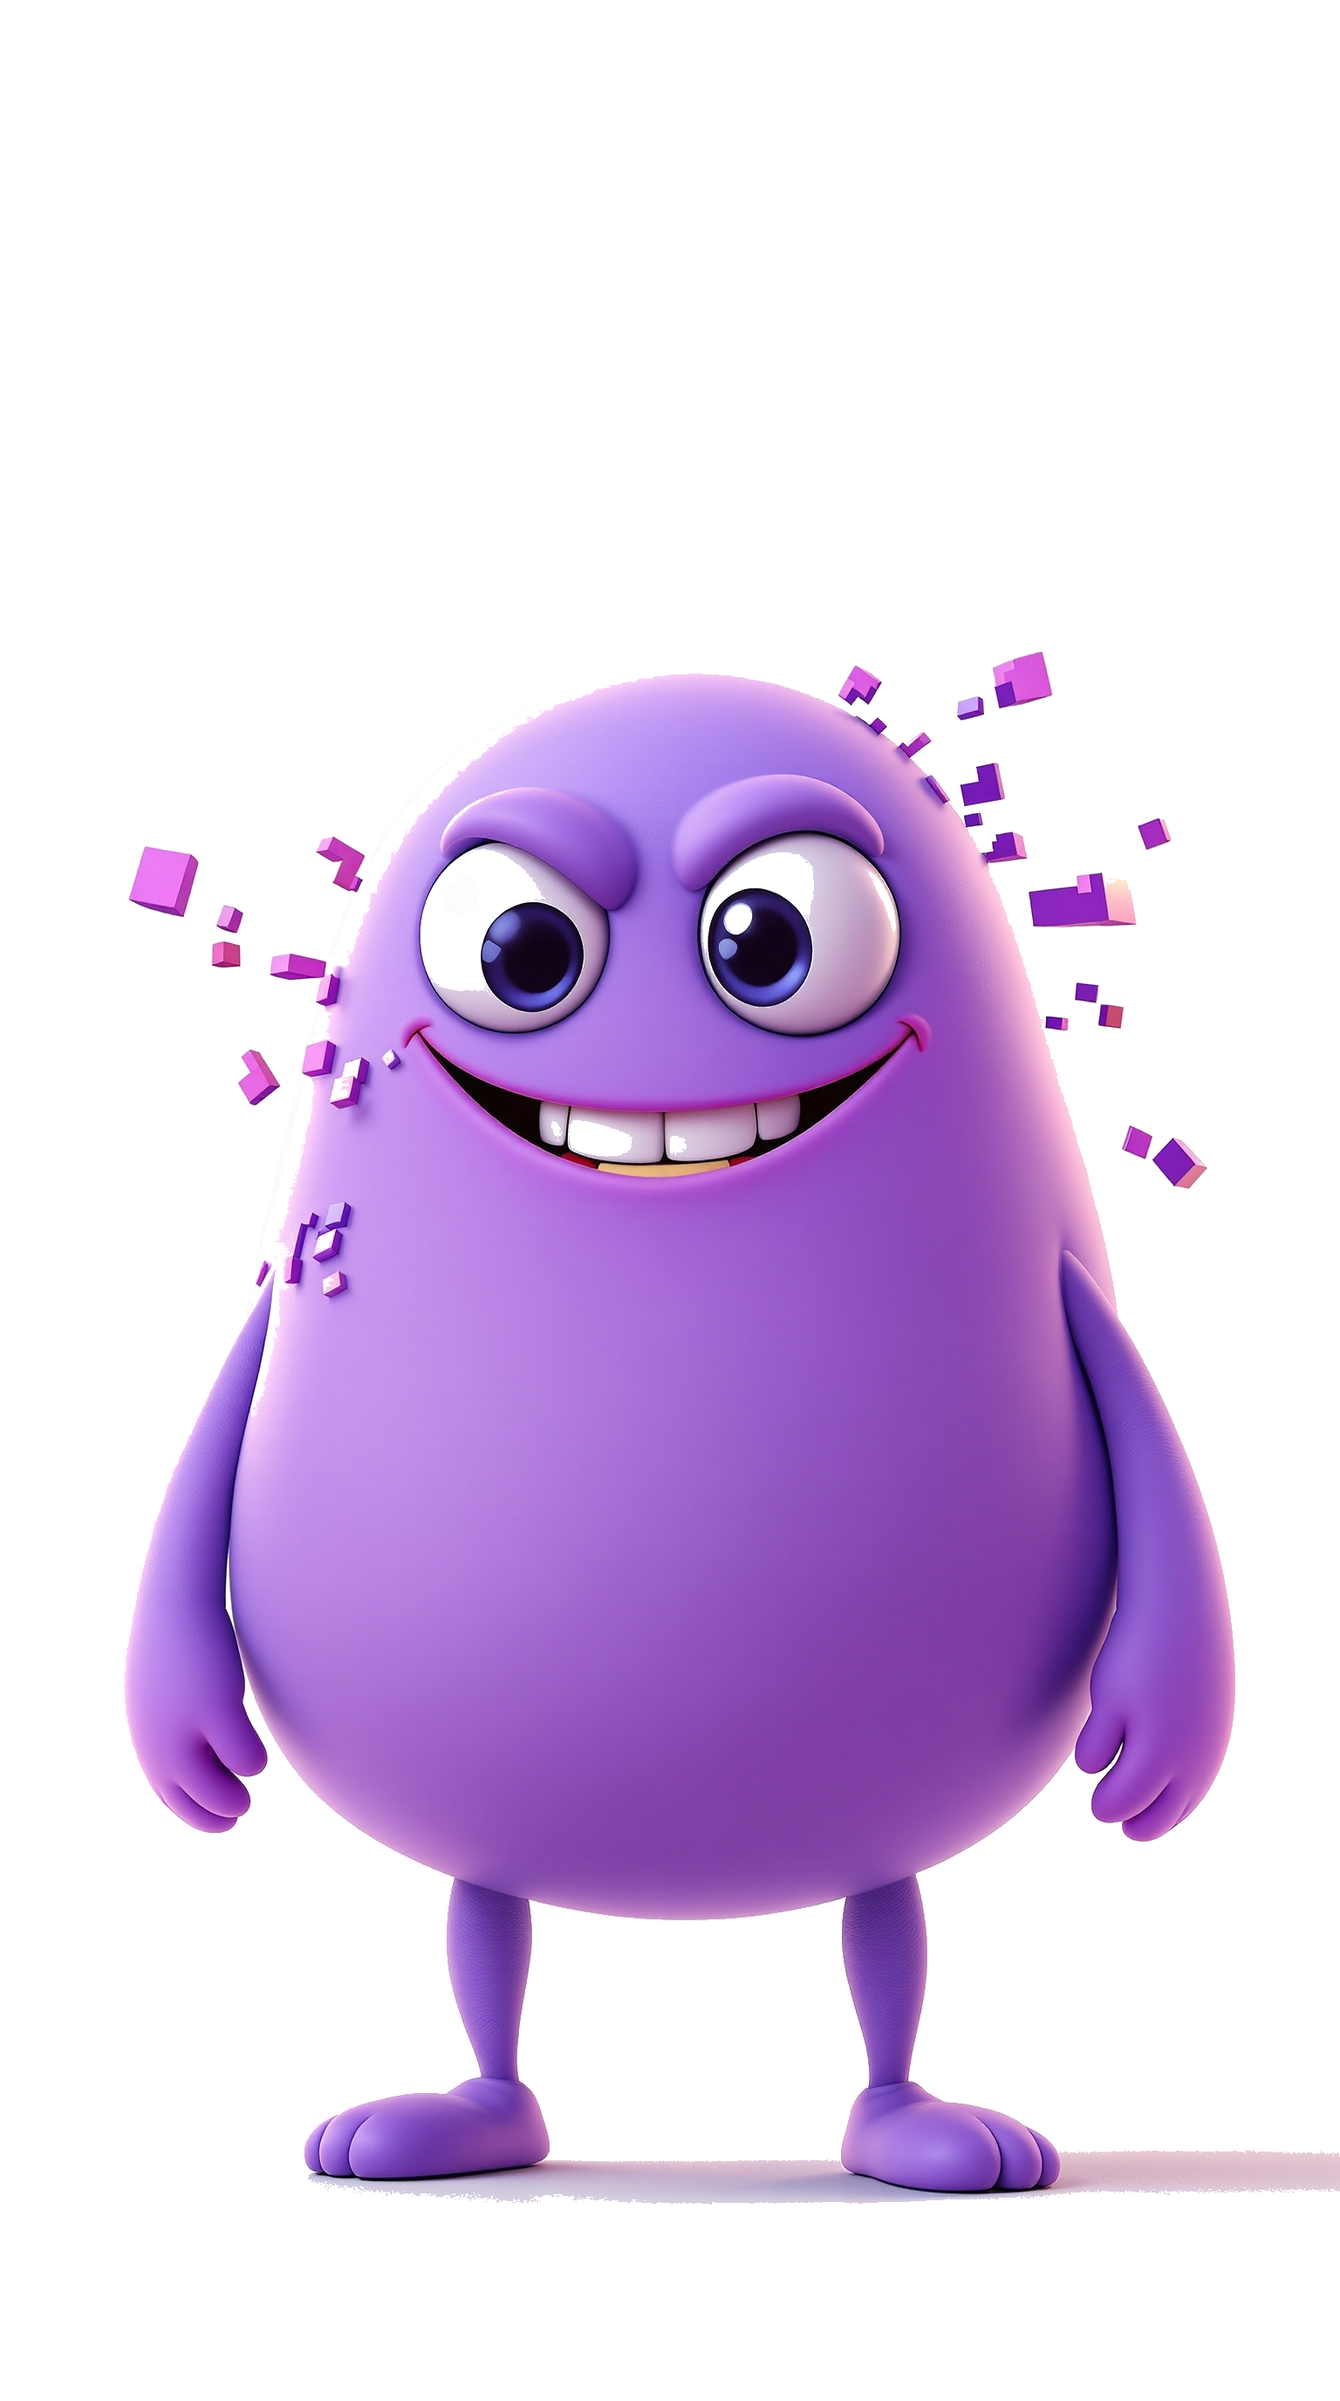
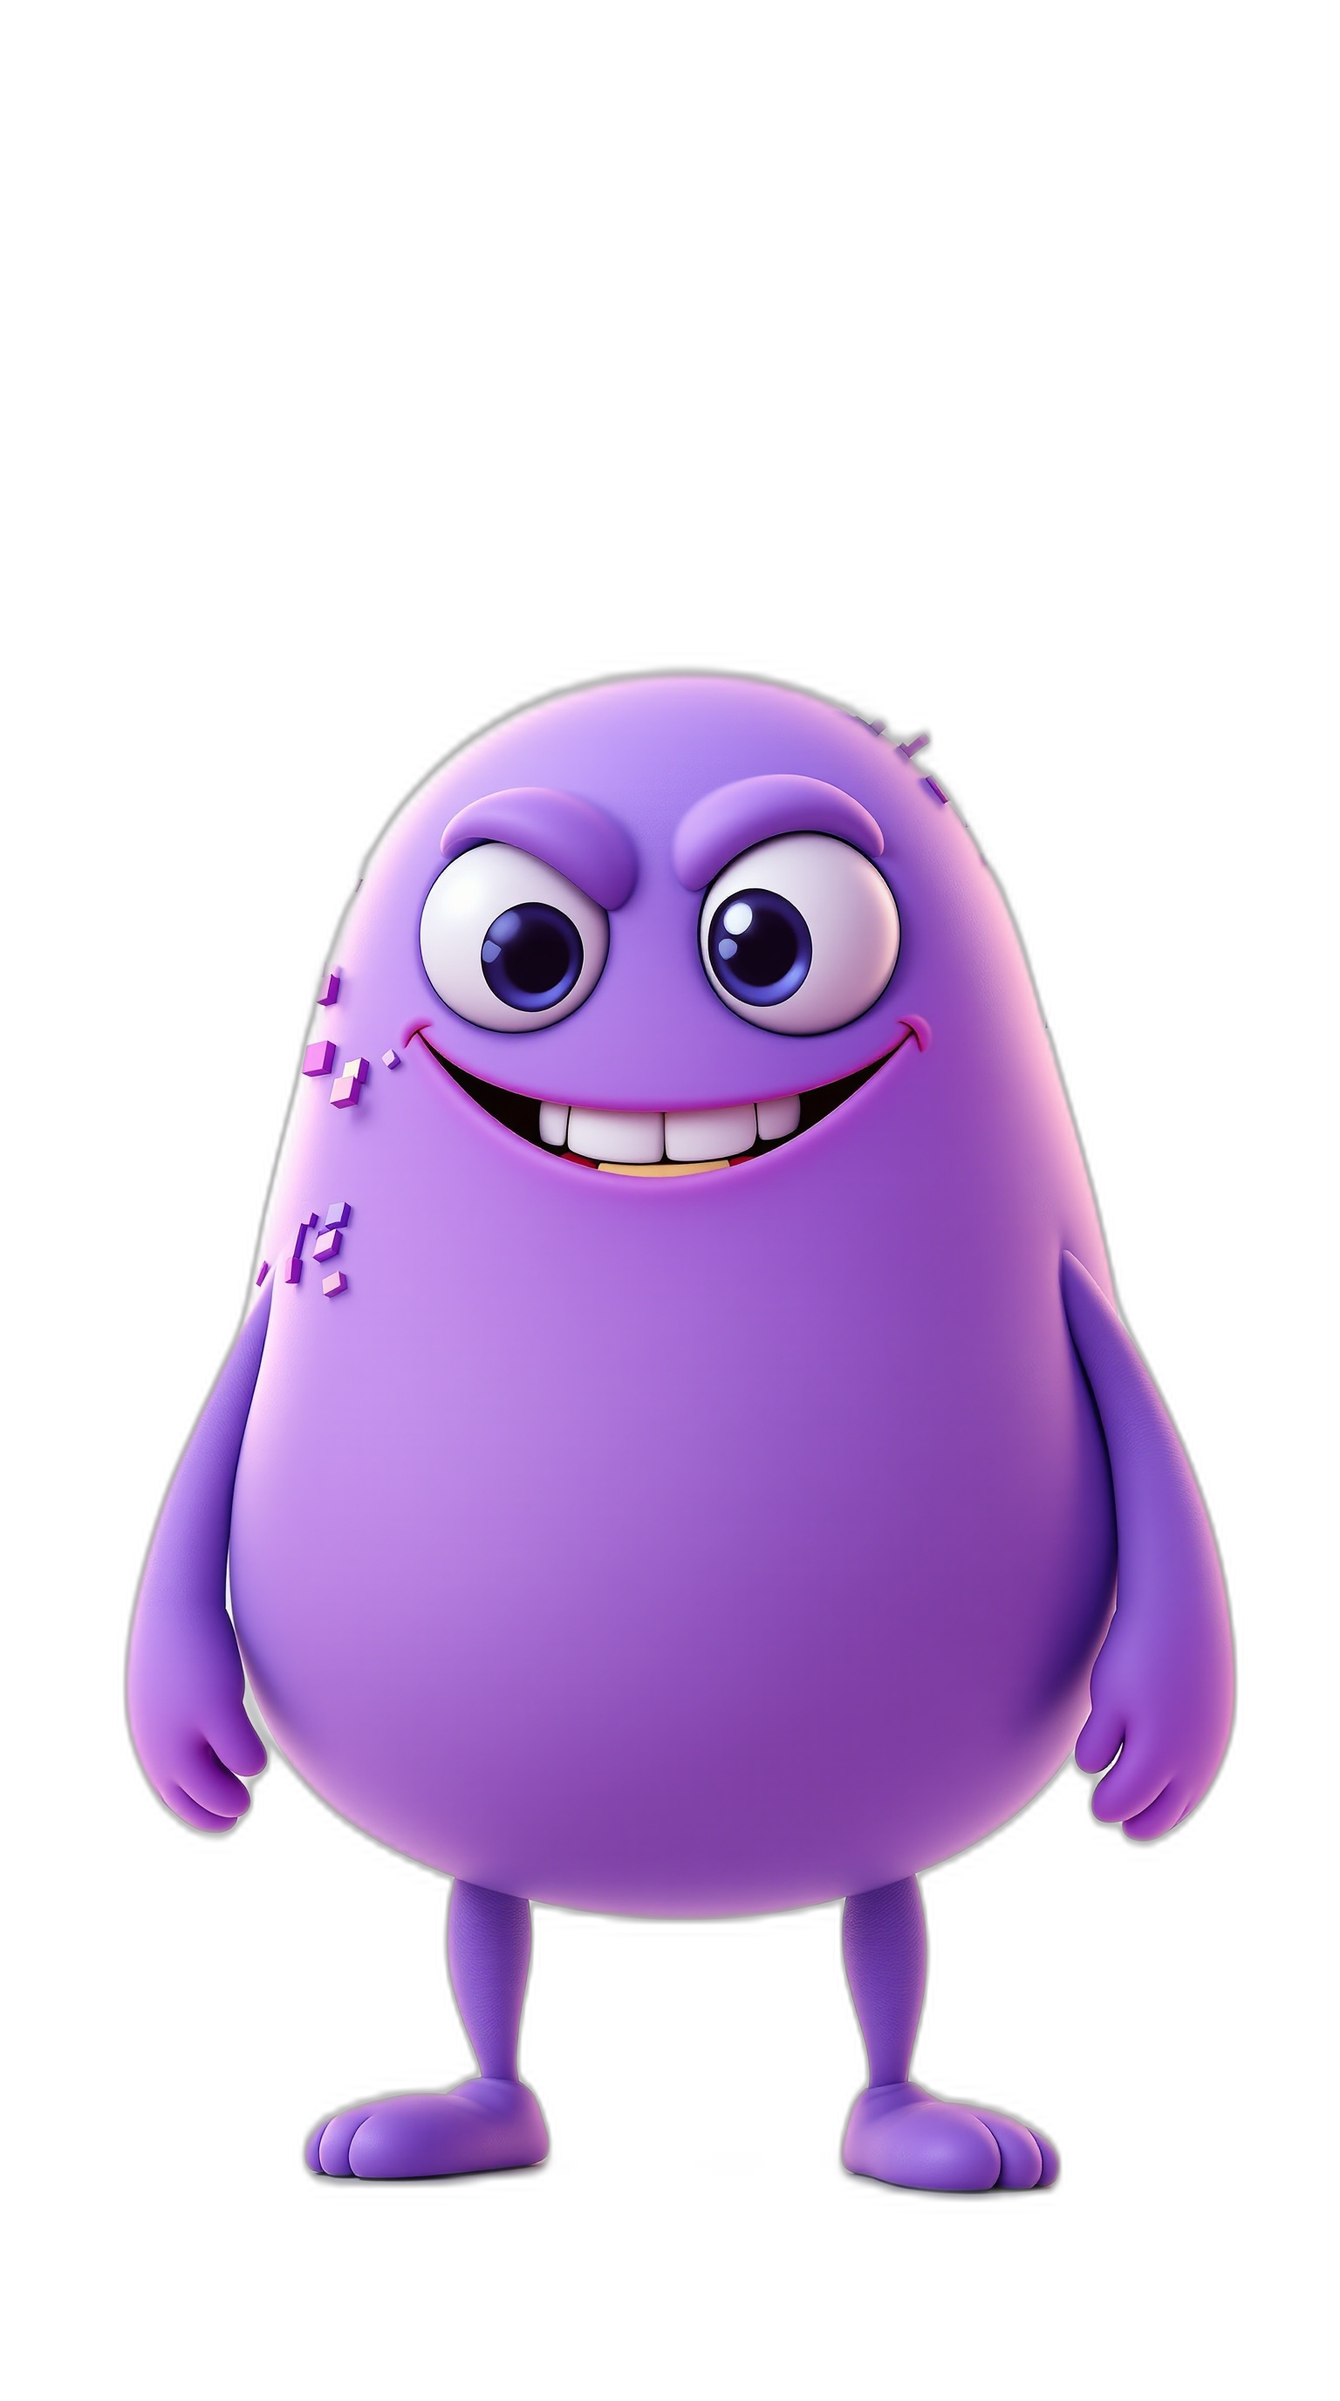
Add second homepage video (Shield Up Anthem), fix character cutout backgrounds
Osman asked for the song campaign resumed with the original "ninni ninni"
153s version of the song, as a second video alongside the existing one
("iki video da olsun") — same verse/chorus-to-clip mapping, re-synced to
this track's timing. Both now play side by side on the homepage.

Also fixed all 6 character cutout PNGs in assets/characters/cutouts/:
several had incomplete background removal (dame-noble and sprout had a
large leftover opaque rectangle from the original studio backdrop; pixel
and glitch had smaller floor-shadow/edge artifacts) — invisible on a white
page background but very visible once composited onto navy for a poster.
Re-generated all 6 from the original source JPGs via rembg for a clean,
consistent result, verified by compositing each onto solid red before
replacing the originals.

diff --git a/frontend/en/index.html b/frontend/en/index.html
@@ -517,13 +517,23 @@
       <p id="poll-note" style="color:var(--gray);font-size:0.72rem;margin-top:0.8rem;display:none;" data-i18n="poll.note">Thanks for voting! Results are a snapshot of member preference, not a formal election.</p>
     </div>
 
-    <div id="shield-up-song" style="margin-top:1.2rem;background:white;border:2px solid var(--light);border-radius:22px;padding:1.6rem 2.2rem;box-shadow:0 4px 24px rgba(13,27,62,0.06);text-align:center;">
-      <div style="color:var(--gold);font-weight:800;font-size:0.72rem;letter-spacing:2px;text-transform:uppercase;margin-bottom:4px;" data-i18n="song.eyebrow">🎵 Sing Along</div>
-      <h3 style="color:var(--navy);font-size:1.15rem;margin-bottom:8px;" data-i18n="song.title">The Shield Up Song</h3>
-      <p style="color:var(--gray);font-size:0.87rem;margin-bottom:14px;max-width:460px;margin-left:auto;margin-right:auto;" data-i18n="song.subtitle">An original song teaching the core Digital Safety Knights rules — sing along with Pixel, Shieldy, Sprout, Dame Noble, Glitch, and Bot!</p>
-      <video controls preload="metadata" poster="/videos/shield-up-song.jpg" style="width:100%;max-width:360px;border-radius:14px;box-shadow:0 8px 24px rgba(13,27,62,0.15);">
-        <source src="/videos/shield-up-song.mp4" type="video/mp4">
-      </video>
+    <div style="margin-top:1.2rem;display:flex;gap:1.2rem;flex-wrap:wrap;">
+      <div id="shield-up-song" style="flex:1;min-width:280px;background:white;border:2px solid var(--light);border-radius:22px;padding:1.6rem 2rem;box-shadow:0 4px 24px rgba(13,27,62,0.06);text-align:center;">
+        <div style="color:var(--gold);font-weight:800;font-size:0.72rem;letter-spacing:2px;text-transform:uppercase;margin-bottom:4px;" data-i18n="song.eyebrow">🎵 Sing Along</div>
+        <h3 style="color:var(--navy);font-size:1.1rem;margin-bottom:8px;" data-i18n="song.title">The Shield Up Song</h3>
+        <p style="color:var(--gray);font-size:0.85rem;margin-bottom:14px;" data-i18n="song.subtitle">An original song teaching the core Digital Safety Knights rules — sing along with Pixel, Shieldy, Sprout, Dame Noble, Glitch, and Bot!</p>
+        <video controls preload="metadata" poster="/videos/shield-up-song.jpg" style="width:100%;max-width:320px;border-radius:14px;box-shadow:0 8px 24px rgba(13,27,62,0.15);">
+          <source src="/videos/shield-up-song.mp4" type="video/mp4">
+        </video>
+      </div>
+      <div id="shield-up-anthem" style="flex:1;min-width:280px;background:white;border:2px solid var(--light);border-radius:22px;padding:1.6rem 2rem;box-shadow:0 4px 24px rgba(13,27,62,0.06);text-align:center;">
+        <div style="color:var(--gold);font-weight:800;font-size:0.72rem;letter-spacing:2px;text-transform:uppercase;margin-bottom:4px;" data-i18n="anthem.eyebrow">🎵 Sing Along</div>
+        <h3 style="color:var(--navy);font-size:1.1rem;margin-bottom:8px;" data-i18n="anthem.title">The Shield Up Anthem</h3>
+        <p style="color:var(--gray);font-size:0.85rem;margin-bottom:14px;" data-i18n="anthem.subtitle">Another version of our Digital Safety Knights song, with the whole squad — same rules, same Knights, a different take!</p>
+        <video controls preload="metadata" poster="/videos/shield-up-anthem.jpg" style="width:100%;max-width:320px;border-radius:14px;box-shadow:0 8px 24px rgba(13,27,62,0.15);">
+          <source src="/videos/shield-up-anthem.mp4" type="video/mp4">
+        </video>
+      </div>
     </div>
   </div>
 </section>

diff --git a/frontend/es/index.html b/frontend/es/index.html
@@ -517,13 +517,23 @@
       <p id="poll-note" style="color:var(--gray);font-size:0.72rem;margin-top:0.8rem;display:none;" data-i18n="poll.note">Thanks for voting! Results are a snapshot of member preference, not a formal election.</p>
     </div>
 
-    <div id="shield-up-song" style="margin-top:1.2rem;background:white;border:2px solid var(--light);border-radius:22px;padding:1.6rem 2.2rem;box-shadow:0 4px 24px rgba(13,27,62,0.06);text-align:center;">
-      <div style="color:var(--gold);font-weight:800;font-size:0.72rem;letter-spacing:2px;text-transform:uppercase;margin-bottom:4px;" data-i18n="song.eyebrow">🎵 Sing Along</div>
-      <h3 style="color:var(--navy);font-size:1.15rem;margin-bottom:8px;" data-i18n="song.title">The Shield Up Song</h3>
-      <p style="color:var(--gray);font-size:0.87rem;margin-bottom:14px;max-width:460px;margin-left:auto;margin-right:auto;" data-i18n="song.subtitle">An original song teaching the core Digital Safety Knights rules — sing along with Pixel, Shieldy, Sprout, Dame Noble, Glitch, and Bot!</p>
-      <video controls preload="metadata" poster="/videos/shield-up-song.jpg" style="width:100%;max-width:360px;border-radius:14px;box-shadow:0 8px 24px rgba(13,27,62,0.15);">
-        <source src="/videos/shield-up-song.mp4" type="video/mp4">
-      </video>
+    <div style="margin-top:1.2rem;display:flex;gap:1.2rem;flex-wrap:wrap;">
+      <div id="shield-up-song" style="flex:1;min-width:280px;background:white;border:2px solid var(--light);border-radius:22px;padding:1.6rem 2rem;box-shadow:0 4px 24px rgba(13,27,62,0.06);text-align:center;">
+        <div style="color:var(--gold);font-weight:800;font-size:0.72rem;letter-spacing:2px;text-transform:uppercase;margin-bottom:4px;" data-i18n="song.eyebrow">🎵 Sing Along</div>
+        <h3 style="color:var(--navy);font-size:1.1rem;margin-bottom:8px;" data-i18n="song.title">The Shield Up Song</h3>
+        <p style="color:var(--gray);font-size:0.85rem;margin-bottom:14px;" data-i18n="song.subtitle">An original song teaching the core Digital Safety Knights rules — sing along with Pixel, Shieldy, Sprout, Dame Noble, Glitch, and Bot!</p>
+        <video controls preload="metadata" poster="/videos/shield-up-song.jpg" style="width:100%;max-width:320px;border-radius:14px;box-shadow:0 8px 24px rgba(13,27,62,0.15);">
+          <source src="/videos/shield-up-song.mp4" type="video/mp4">
+        </video>
+      </div>
+      <div id="shield-up-anthem" style="flex:1;min-width:280px;background:white;border:2px solid var(--light);border-radius:22px;padding:1.6rem 2rem;box-shadow:0 4px 24px rgba(13,27,62,0.06);text-align:center;">
+        <div style="color:var(--gold);font-weight:800;font-size:0.72rem;letter-spacing:2px;text-transform:uppercase;margin-bottom:4px;" data-i18n="anthem.eyebrow">🎵 Sing Along</div>
+        <h3 style="color:var(--navy);font-size:1.1rem;margin-bottom:8px;" data-i18n="anthem.title">The Shield Up Anthem</h3>
+        <p style="color:var(--gray);font-size:0.85rem;margin-bottom:14px;" data-i18n="anthem.subtitle">Another version of our Digital Safety Knights song, with the whole squad — same rules, same Knights, a different take!</p>
+        <video controls preload="metadata" poster="/videos/shield-up-anthem.jpg" style="width:100%;max-width:320px;border-radius:14px;box-shadow:0 8px 24px rgba(13,27,62,0.15);">
+          <source src="/videos/shield-up-anthem.mp4" type="video/mp4">
+        </video>
+      </div>
     </div>
   </div>
 </section>

diff --git a/frontend/index.html b/frontend/index.html
@@ -517,13 +517,23 @@
       <p id="poll-note" style="color:var(--gray);font-size:0.72rem;margin-top:0.8rem;display:none;" data-i18n="poll.note">Thanks for voting! Results are a snapshot of member preference, not a formal election.</p>
     </div>
 
-    <div id="shield-up-song" style="margin-top:1.2rem;background:white;border:2px solid var(--light);border-radius:22px;padding:1.6rem 2.2rem;box-shadow:0 4px 24px rgba(13,27,62,0.06);text-align:center;">
-      <div style="color:var(--gold);font-weight:800;font-size:0.72rem;letter-spacing:2px;text-transform:uppercase;margin-bottom:4px;" data-i18n="song.eyebrow">🎵 Sing Along</div>
-      <h3 style="color:var(--navy);font-size:1.15rem;margin-bottom:8px;" data-i18n="song.title">The Shield Up Song</h3>
-      <p style="color:var(--gray);font-size:0.87rem;margin-bottom:14px;max-width:460px;margin-left:auto;margin-right:auto;" data-i18n="song.subtitle">An original song teaching the core Digital Safety Knights rules — sing along with Pixel, Shieldy, Sprout, Dame Noble, Glitch, and Bot!</p>
-      <video controls preload="metadata" poster="/videos/shield-up-song.jpg" style="width:100%;max-width:360px;border-radius:14px;box-shadow:0 8px 24px rgba(13,27,62,0.15);">
-        <source src="/videos/shield-up-song.mp4" type="video/mp4">
-      </video>
+    <div style="margin-top:1.2rem;display:flex;gap:1.2rem;flex-wrap:wrap;">
+      <div id="shield-up-song" style="flex:1;min-width:280px;background:white;border:2px solid var(--light);border-radius:22px;padding:1.6rem 2rem;box-shadow:0 4px 24px rgba(13,27,62,0.06);text-align:center;">
+        <div style="color:var(--gold);font-weight:800;font-size:0.72rem;letter-spacing:2px;text-transform:uppercase;margin-bottom:4px;" data-i18n="song.eyebrow">🎵 Sing Along</div>
+        <h3 style="color:var(--navy);font-size:1.1rem;margin-bottom:8px;" data-i18n="song.title">The Shield Up Song</h3>
+        <p style="color:var(--gray);font-size:0.85rem;margin-bottom:14px;" data-i18n="song.subtitle">An original song teaching the core Digital Safety Knights rules — sing along with Pixel, Shieldy, Sprout, Dame Noble, Glitch, and Bot!</p>
+        <video controls preload="metadata" poster="/videos/shield-up-song.jpg" style="width:100%;max-width:320px;border-radius:14px;box-shadow:0 8px 24px rgba(13,27,62,0.15);">
+          <source src="/videos/shield-up-song.mp4" type="video/mp4">
+        </video>
+      </div>
+      <div id="shield-up-anthem" style="flex:1;min-width:280px;background:white;border:2px solid var(--light);border-radius:22px;padding:1.6rem 2rem;box-shadow:0 4px 24px rgba(13,27,62,0.06);text-align:center;">
+        <div style="color:var(--gold);font-weight:800;font-size:0.72rem;letter-spacing:2px;text-transform:uppercase;margin-bottom:4px;" data-i18n="anthem.eyebrow">🎵 Sing Along</div>
+        <h3 style="color:var(--navy);font-size:1.1rem;margin-bottom:8px;" data-i18n="anthem.title">The Shield Up Anthem</h3>
+        <p style="color:var(--gray);font-size:0.85rem;margin-bottom:14px;" data-i18n="anthem.subtitle">Another version of our Digital Safety Knights song, with the whole squad — same rules, same Knights, a different take!</p>
+        <video controls preload="metadata" poster="/videos/shield-up-anthem.jpg" style="width:100%;max-width:320px;border-radius:14px;box-shadow:0 8px 24px rgba(13,27,62,0.15);">
+          <source src="/videos/shield-up-anthem.mp4" type="video/mp4">
+        </video>
+      </div>
     </div>
   </div>
 </section>

diff --git a/frontend/tr/index.html b/frontend/tr/index.html
@@ -517,13 +517,23 @@
       <p id="poll-note" style="color:var(--gray);font-size:0.72rem;margin-top:0.8rem;display:none;" data-i18n="poll.note">Thanks for voting! Results are a snapshot of member preference, not a formal election.</p>
     </div>
 
-    <div id="shield-up-song" style="margin-top:1.2rem;background:white;border:2px solid var(--light);border-radius:22px;padding:1.6rem 2.2rem;box-shadow:0 4px 24px rgba(13,27,62,0.06);text-align:center;">
-      <div style="color:var(--gold);font-weight:800;font-size:0.72rem;letter-spacing:2px;text-transform:uppercase;margin-bottom:4px;" data-i18n="song.eyebrow">🎵 Sing Along</div>
-      <h3 style="color:var(--navy);font-size:1.15rem;margin-bottom:8px;" data-i18n="song.title">The Shield Up Song</h3>
-      <p style="color:var(--gray);font-size:0.87rem;margin-bottom:14px;max-width:460px;margin-left:auto;margin-right:auto;" data-i18n="song.subtitle">An original song teaching the core Digital Safety Knights rules — sing along with Pixel, Shieldy, Sprout, Dame Noble, Glitch, and Bot!</p>
-      <video controls preload="metadata" poster="/videos/shield-up-song.jpg" style="width:100%;max-width:360px;border-radius:14px;box-shadow:0 8px 24px rgba(13,27,62,0.15);">
-        <source src="/videos/shield-up-song.mp4" type="video/mp4">
-      </video>
+    <div style="margin-top:1.2rem;display:flex;gap:1.2rem;flex-wrap:wrap;">
+      <div id="shield-up-song" style="flex:1;min-width:280px;background:white;border:2px solid var(--light);border-radius:22px;padding:1.6rem 2rem;box-shadow:0 4px 24px rgba(13,27,62,0.06);text-align:center;">
+        <div style="color:var(--gold);font-weight:800;font-size:0.72rem;letter-spacing:2px;text-transform:uppercase;margin-bottom:4px;" data-i18n="song.eyebrow">🎵 Sing Along</div>
+        <h3 style="color:var(--navy);font-size:1.1rem;margin-bottom:8px;" data-i18n="song.title">The Shield Up Song</h3>
+        <p style="color:var(--gray);font-size:0.85rem;margin-bottom:14px;" data-i18n="song.subtitle">An original song teaching the core Digital Safety Knights rules — sing along with Pixel, Shieldy, Sprout, Dame Noble, Glitch, and Bot!</p>
+        <video controls preload="metadata" poster="/videos/shield-up-song.jpg" style="width:100%;max-width:320px;border-radius:14px;box-shadow:0 8px 24px rgba(13,27,62,0.15);">
+          <source src="/videos/shield-up-song.mp4" type="video/mp4">
+        </video>
+      </div>
+      <div id="shield-up-anthem" style="flex:1;min-width:280px;background:white;border:2px solid var(--light);border-radius:22px;padding:1.6rem 2rem;box-shadow:0 4px 24px rgba(13,27,62,0.06);text-align:center;">
+        <div style="color:var(--gold);font-weight:800;font-size:0.72rem;letter-spacing:2px;text-transform:uppercase;margin-bottom:4px;" data-i18n="anthem.eyebrow">🎵 Sing Along</div>
+        <h3 style="color:var(--navy);font-size:1.1rem;margin-bottom:8px;" data-i18n="anthem.title">The Shield Up Anthem</h3>
+        <p style="color:var(--gray);font-size:0.85rem;margin-bottom:14px;" data-i18n="anthem.subtitle">Another version of our Digital Safety Knights song, with the whole squad — same rules, same Knights, a different take!</p>
+        <video controls preload="metadata" poster="/videos/shield-up-anthem.jpg" style="width:100%;max-width:320px;border-radius:14px;box-shadow:0 8px 24px rgba(13,27,62,0.15);">
+          <source src="/videos/shield-up-anthem.mp4" type="video/mp4">
+        </video>
+      </div>
     </div>
   </div>
 </section>
